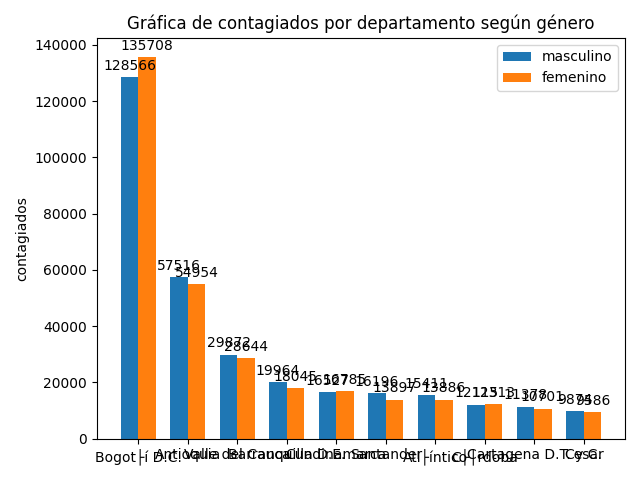
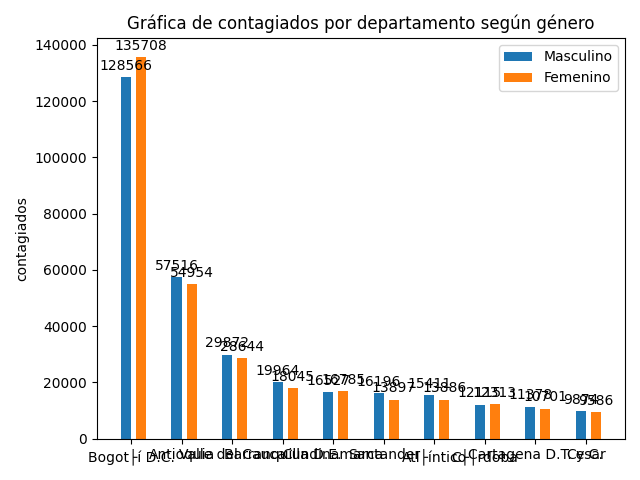
Grafica N3

Changed region(s): [[0.125, 0.0625, 0.9688, 0.9688], [0.8438, 0.0938, 0.9688, 0.1875]]

diff --git a/graficas.py b/graficas.py
@@ -35,9 +35,9 @@ x=np.arange(len(departamentos))
 width=0.20
 #barra hombre
 fig, ax = plt.subplots()
-rectaMasc=ax.bar(x-width/2,masculino,width,label='masculino')
+rectaMasc=ax.bar(x-width/2,masculino,width,label='Masculino')
 #barra femenino
-rectafem=ax.bar(x+width/2+0.01,femenino,width,label='femenino')
+rectafem=ax.bar(x+width/2+0.1,femenino,width,label='Femenino')
 #etiquetas
 ax.set_ylabel('contagiados')
 ax.set_title('Gráfica de contagiados por departamento según género')
@@ -59,5 +59,45 @@ autolabel(rectaMasc)
 autolabel(rectafem)
 fig.tight_layout()
 plt.savefig('doble_barra.png')
+plt.show()
+
+#Gráfica N3 edades en Colombia 
+cursor = conexion.cursor(buffered=True)
+cursor.execute('select edad, count(*) as contagiados from datos group by edad;')
+edades=['1 a 20','21 a 40','41 a 60','61 a 80','Mayores a 80']
+
+valores=[]
+
+cursor.execute('select count(*) as contagiados from datos where edad between 1 and 20;')
+for fila in cursor:
+    valores.append(fila[0])
+
+cursor.execute('select count(*) as contagiados from datos where edad between 21 and 40;')
+for fila in cursor:
+    valores.append(fila[0])
+
+cursor.execute('select count(*) as contagiados from datos where edad between 41 and 60;')
+for fila in cursor:
+    valores.append(fila[0])
+
+cursor.execute('select count(*) as contagiados from datos where edad between 61 and 80;')
+for fila in cursor:
+    valores.append(fila[0])   
+
+cursor.execute('select count(*) as contagiados from datos where edad > 80;')
+for fila in cursor:
+    valores.append(fila[0])
+
+fig, ax=plt.subplots()
+#Etiqueta en el eje y
+ax.set_ylabel('edades')
+#Etiqueta en el eje x
+ax.set_xlabel('Intervalos')
+#Titulo
+ax.set_title('Gráfica contagios por intervalos de edades en Colombia')
+
+plt.bar(edades, valores)
+plt.savefig('barras_simple.png')
+
 plt.show()
 conexion.close()
